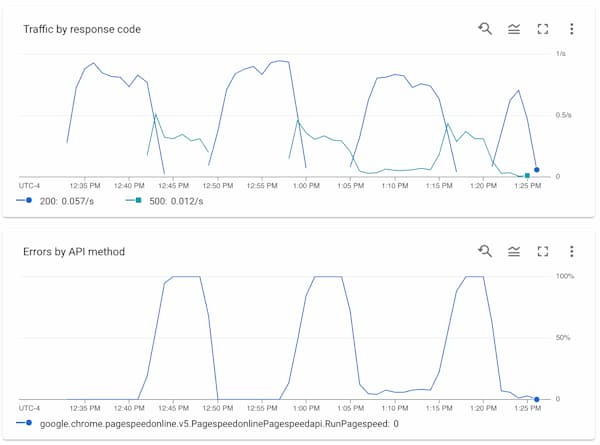
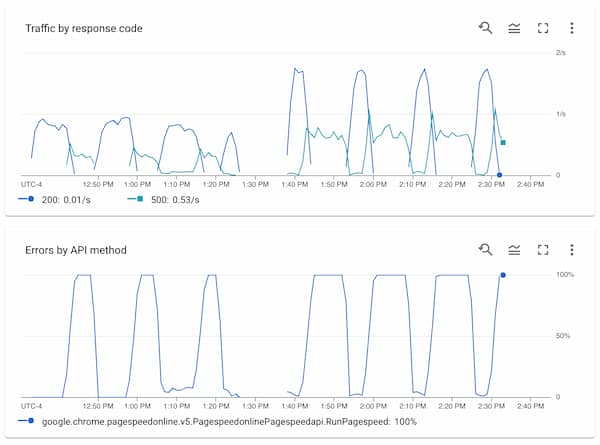
more pagespeed updates

diff --git a/src/pages/log/20221009-pagespeed-api.md b/src/pages/log/20221009-pagespeed-api.md
@@ -11,10 +11,17 @@ The published rate limit for the API is 25k/day, 240 for every 4 minutes. That m
 
 I can't get anywhere close to that.
 
-After my job runs for about 10m the API shits itself and starts returning `500: Unable to process request` for about 5 minutes before recovering. This [unanswered Stack Overflow question from Sept 2021](https://stackoverflow.com/questions/69391324/why-is-pagespeed-insights-api-returning-unable-to-process-request-even-within) has details from another poor soul encountering this. Here are my graphs:
+After my job runs for about 10m the API shits itself and starts returning `500: Unable to process request` for about 5 minutes before recovering. This [unanswered Stack Overflow question from Sept 2021](https://stackoverflow.com/questions/69391324/why-is-pagespeed-insights-api-returning-unable-to-process-request-even-within) has details from another poor soul encountering this.
 
-<!-- insert graphs here -->
-<img alt="graphs from pagespeed api monitor show a plateau of 200s at about 1 request/second for about , followed by a valley of 500s for about 5m" src="/public/assets/20221009-pagespeed-graphs.jpg">
+My graphs from the pagespeed api monitor show a timeseries of successful 200 responses at about 1 request/second for about, followed by a steep dropoff and a rise of 500s for about 5m before returning to all 200s.
+
+I did another run about 10m later where I went from 30 to 60 workers, and that exhibits similar behavior. We are able to achieve higher throughput during the good times, but the good times last much shorter before the bad times.
+
+<img
+  alt="screenshot of the graph mentioned in the paragraphs above"
+  width=600
+  height=445
+  src="/assets/20221009-pagespeed-graphs.jpg">
 
 This is consistent across dozens of runs at this point, and the error valleys happen between every 450-500 requests.
 
